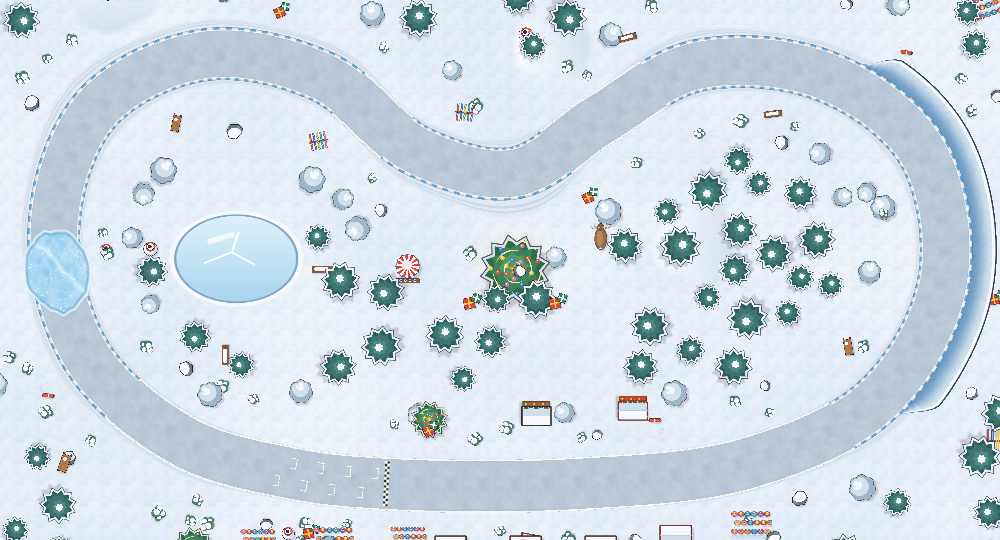
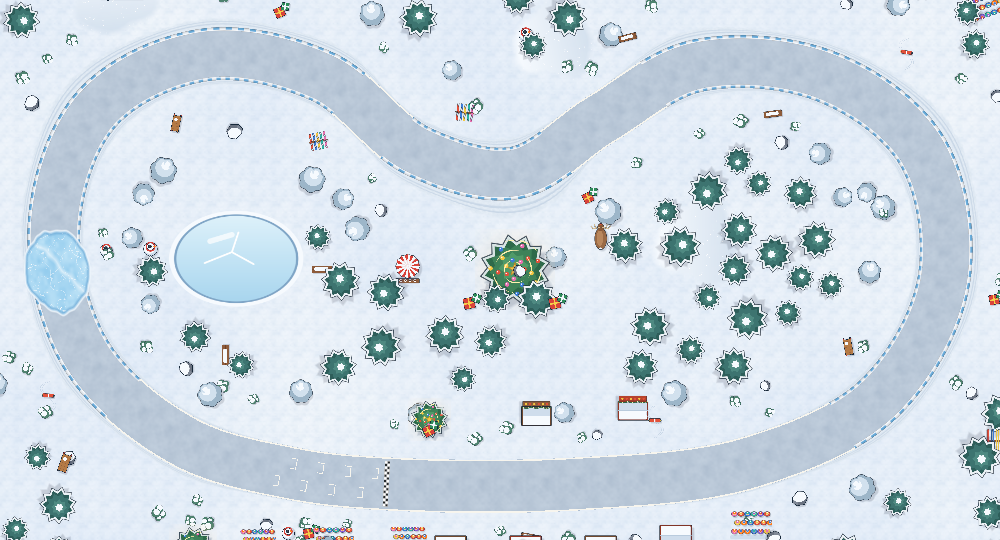
Snowball Village without the ice wall (normal kerbs round the long sweep), stars 102/90/85; race screens in the cup's colours - HUD, track view, countdown, lap flash and results all take the Winter Cup palette on winter races (the pause menu stays neutral)

Changed region(s): [[0.868, 0.1185, 1.0, 0.7704], [0.589, 0.1185, 0.62, 0.1481]]

diff --git a/Assets/Scripts/UI/RaceHud.cs b/Assets/Scripts/UI/RaceHud.cs
@@ -21,7 +21,7 @@ namespace SomeGame.UI
         [Tooltip("Blinking warning: WRONG WAY or BACK ON THE ROAD! (off-road for too long).")]
         [SerializeField, FormerlySerializedAs("wrongWayLabel")] TMP_Text warningLabel;
 
-        static readonly string Muted = Theme.Html(Theme.Stone);
+        static string Muted => Theme.Html(Theme.Stone);
 
         float _hideFlashAt;
 
@@ -32,6 +32,18 @@ namespace SomeGame.UI
 
         void Start()
         {
+            // The race screens (HUD, countdown, combos, results...) take the colours of the race's cup; they are
+            // built in the Valley colours. The pause menu keeps its own (KeepPalette); online uses its own screens.
+            if (!GameSession.Online && race != null)
+            {
+                var palette = Theme.OfLevel(race.Level);
+                if (palette != Theme.Valley)
+                {
+                    Theme.Use(palette);
+                    foreach (var canvas in FindObjectsByType<Canvas>(FindObjectsInactive.Include, FindObjectsSortMode.None))
+                        if (canvas.isRootCanvas) Theme.Recolor(canvas.transform, Theme.Valley);
+                }
+            }
             LapFlash.SetActive(false);
             if (warningLabel != null) warningLabel.gameObject.SetActive(false);
         }
